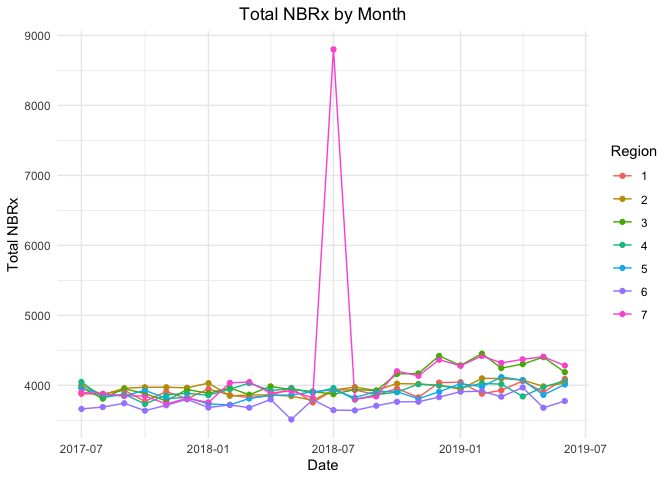
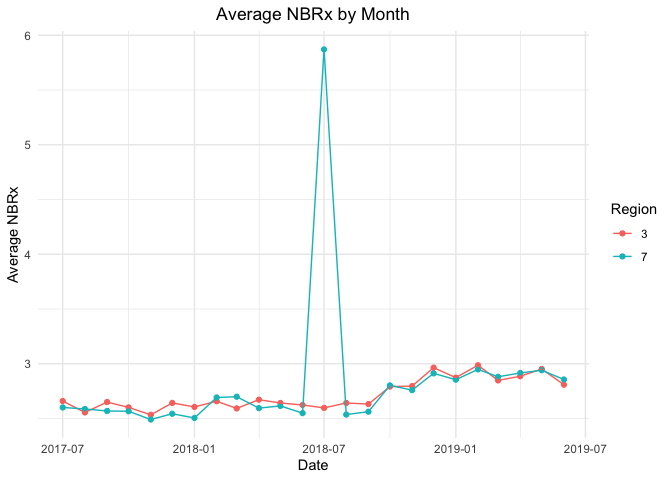
add average plot

diff --git a/takeda_case_study.md b/takeda_case_study.md
@@ -86,14 +86,15 @@ call_df$date = as.Date(call_df$date, origin = "1899-12-30")
 
 ``` r
 nbrx_df %>% 
+  filter(region %in% c(3, 7)) %>% 
   group_by(date, region) %>% 
-  summarize(sum_nbrx = sum(nbrx)) %>% 
-  ggplot(aes(x = date, y = sum_nbrx, color = region)) +
-  geom_point() +
-  labs(
-    title = "Total NBRx by Month",
+  summarize(mean_nbrx = mean(nbrx)) %>% 
+  ggplot(aes(x = date, y = mean_nbrx, color = region)) +
+  geom_point()+
+    labs(
+    title = "Average NBRx by Month",
     x = "Date",
-    y = "Total NBRx",
+    y = "Average NBRx",
     color = "Region") +
   geom_line()
 ```
@@ -104,15 +105,14 @@ nbrx_df %>%
 
 ``` r
 nbrx_df %>% 
-  filter(region %in% c(3, 7)) %>% 
   group_by(date, region) %>% 
-  summarize(sum_nbrx = sum(nbrx)) %>% 
-  ggplot(aes(x = date, y = sum_nbrx, color = region)) +
+  summarize(mean_nbrx = mean(nbrx)) %>% 
+  ggplot(aes(x = date, y = mean_nbrx, color = region)) +
   geom_point()+
     labs(
-    title = "Total NBRx by Month",
+    title = "Average NBRx by Month",
     x = "Date",
-    y = "Total NBRx",
+    y = "Average NBRx",
     color = "Region") +
   geom_line()
 ```
@@ -121,28 +121,32 @@ nbrx_df %>%
 
 ![](takeda_case_study_files/figure-gfm/unnamed-chunk-3-2.png)<!-- -->
 
+# filter out segmented from pilot regions
+
 ``` r
 nbrx_df %>% 
-  filter(region %in% c(1, 2, 4, 5, 6)) %>% 
-  group_by(date, region) %>% 
-  summarize(sum_nbrx = sum(nbrx)) %>% 
-  ggplot(aes(x = date, y = sum_nbrx, color = region)) +
-  geom_point() +
+  filter(region %in% c(3, 7)) %>% 
+  group_by(date, region, message_delivered) %>% 
+  summarize(mean_nbrx = mean(nbrx)) %>% 
+  ggplot(aes(x = date, y = mean_nbrx, color = region)) +
+  geom_point()+
     labs(
-    title = "Total NBRx by Month",
+    title = "Average NBRx by Month",
     x = "Date",
-    y = "Total NBRx",
+    y = "Average NBRx",
     color = "Region") +
-  geom_line()
+  geom_line() +
+  facet_wrap( ~ message_delivered)
 ```
 
-    ## `summarise()` has grouped output by 'date'. You can override using the `.groups` argument.
+    ## `summarise()` has grouped output by 'date', 'region'. You can override using the `.groups` argument.
 
-![](takeda_case_study_files/figure-gfm/unnamed-chunk-3-3.png)<!-- -->
+![](takeda_case_study_files/figure-gfm/unnamed-chunk-4-1.png)<!-- -->
 
 ## Kmeans clustering for NBRx in region 3 and 7
 
 ``` r
+# there is a outlier in region 7, so only conduct kmeans on region 3
 kmeans_df = 
   nbrx_df %>%
   mutate(date = as.numeric(date)) %>% 
@@ -154,6 +158,7 @@ kmeans_fit =
   kmeans(x = kmeans_df, centers = 2)
 
 kmeans_df %>% 
+  mutate(date = as.Date(date, origin = "1969-12-30")) %>% 
   broom::augment(kmeans_fit, .) %>%
   ggplot(aes(x = date, y = sum_nbrx, color = .cluster)) +
   geom_point() +
@@ -164,7 +169,7 @@ kmeans_df %>%
     color = "Cluster")
 ```
 
-![](takeda_case_study_files/figure-gfm/unnamed-chunk-4-1.png)<!-- -->
+![](takeda_case_study_files/figure-gfm/unnamed-chunk-5-1.png)<!-- -->
 
 ## Look at the trend of sals call form 01/01/2018 - 12/01/2018
 
@@ -184,7 +189,7 @@ call_df %>%
 
     ## `summarise()` has grouped output by 'date'. You can override using the `.groups` argument.
 
-![](takeda_case_study_files/figure-gfm/unnamed-chunk-5-1.png)<!-- -->
+![](takeda_case_study_files/figure-gfm/unnamed-chunk-6-1.png)<!-- -->
 
 ``` r
 call_df %>% 
@@ -203,7 +208,7 @@ call_df %>%
 
     ## `summarise()` has grouped output by 'date'. You can override using the `.groups` argument.
 
-![](takeda_case_study_files/figure-gfm/unnamed-chunk-5-2.png)<!-- -->
+![](takeda_case_study_files/figure-gfm/unnamed-chunk-6-2.png)<!-- -->
 
 ``` r
 call_df %>% 
@@ -222,13 +227,46 @@ call_df %>%
 
     ## `summarise()` has grouped output by 'date', 'region'. You can override using the `.groups` argument.
 
-![](takeda_case_study_files/figure-gfm/unnamed-chunk-5-3.png)<!-- -->
+![](takeda_case_study_files/figure-gfm/unnamed-chunk-6-3.png)<!-- -->
 
 ## Linear regression
 
 ``` r
 lm_data = left_join(nbrx_df, call_df, by = c("hcp_id", "date")) %>% 
-  select(-ends_with(".y"))
-#%>% 
- # rename
+  select(-ends_with(".y")) %>% 
+  rename(
+    region = region.x,
+    segment = segment.x,
+    message_delivered = message_delivered.x) %>% 
+  select(hcp_id, date, nbrx, calls, everything()) %>% 
+  drop_na() %>% 
+  filter(message_delivered == "Segmented")
 ```
+
+``` r
+fit = lm(nbrx ~ calls, data = lm_data)
+
+broom::tidy(fit)
+```
+
+    ## # A tibble: 2 × 5
+    ##   term        estimate std.error statistic  p.value
+    ##   <chr>          <dbl>     <dbl>     <dbl>    <dbl>
+    ## 1 (Intercept)  3.08        0.794    3.88   0.000106
+    ## 2 calls        0.00637     0.340    0.0187 0.985
+
+``` r
+broom::glance(fit)
+```
+
+    ## # A tibble: 1 × 12
+    ##      r.squared adj.r.squared sigma statistic p.value    df  logLik    AIC    BIC
+    ##          <dbl>         <dbl> <dbl>     <dbl>   <dbl> <dbl>   <dbl>  <dbl>  <dbl>
+    ## 1 0.0000000302    -0.0000861  46.4  0.000351   0.985     1 -61057. 1.22e5 1.22e5
+    ## # … with 3 more variables: deviance <dbl>, df.residual <int>, nobs <int>
+
+``` r
+plot(fit)
+```
+
+![](takeda_case_study_files/figure-gfm/unnamed-chunk-8-1.png)<!-- -->![](takeda_case_study_files/figure-gfm/unnamed-chunk-8-2.png)<!-- -->![](takeda_case_study_files/figure-gfm/unnamed-chunk-8-3.png)<!-- -->![](takeda_case_study_files/figure-gfm/unnamed-chunk-8-4.png)<!-- -->
